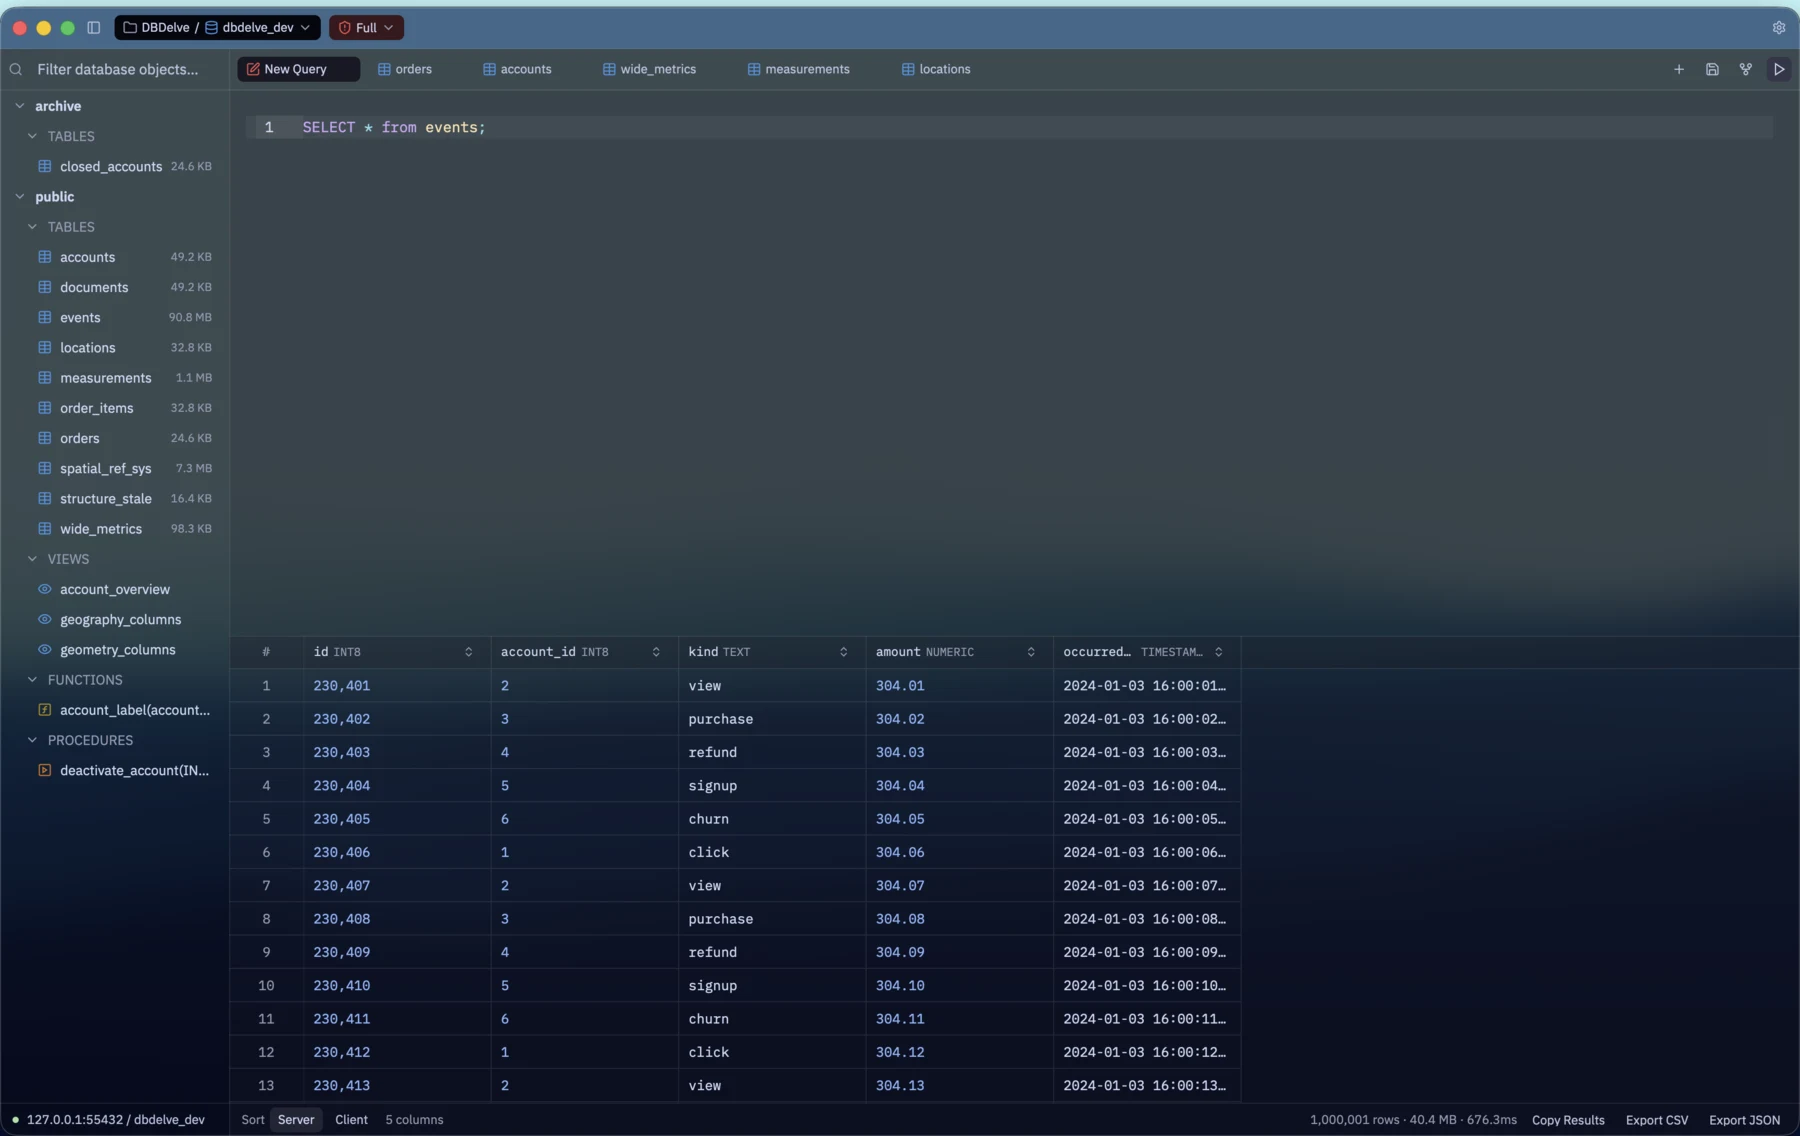
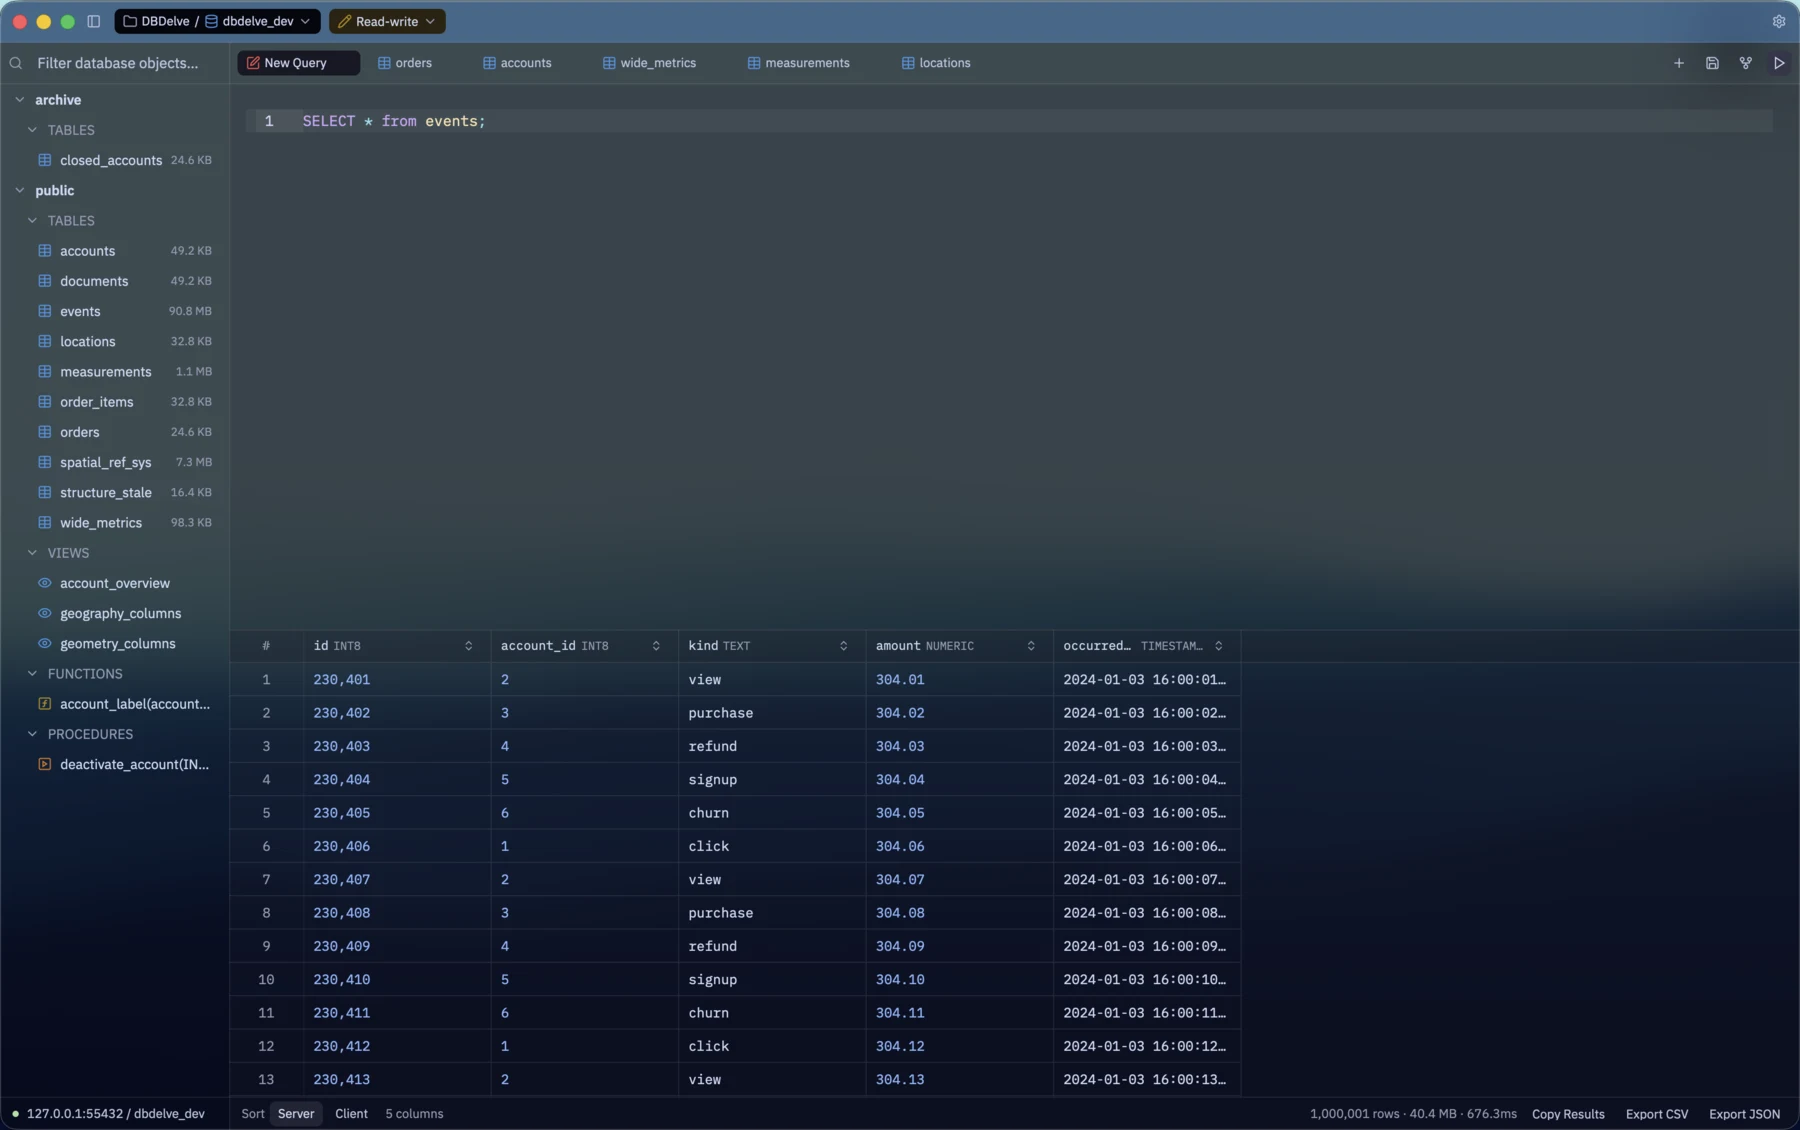
Use a cleaner hero screenshot

diff --git a/index.html b/index.html
@@ -1730,7 +1730,7 @@
                             <img
                                 src="assets/app-hero.webp"
                                 width="1800"
-                                height="1136"
+                                height="1130"
                                 alt="DBDelve in a blue glass theme: a schema tree on the left, a SELECT on the events table in the editor, and a result grid of 1,000,001 rows below it."
                                 fetchpriority="high"
                             />
